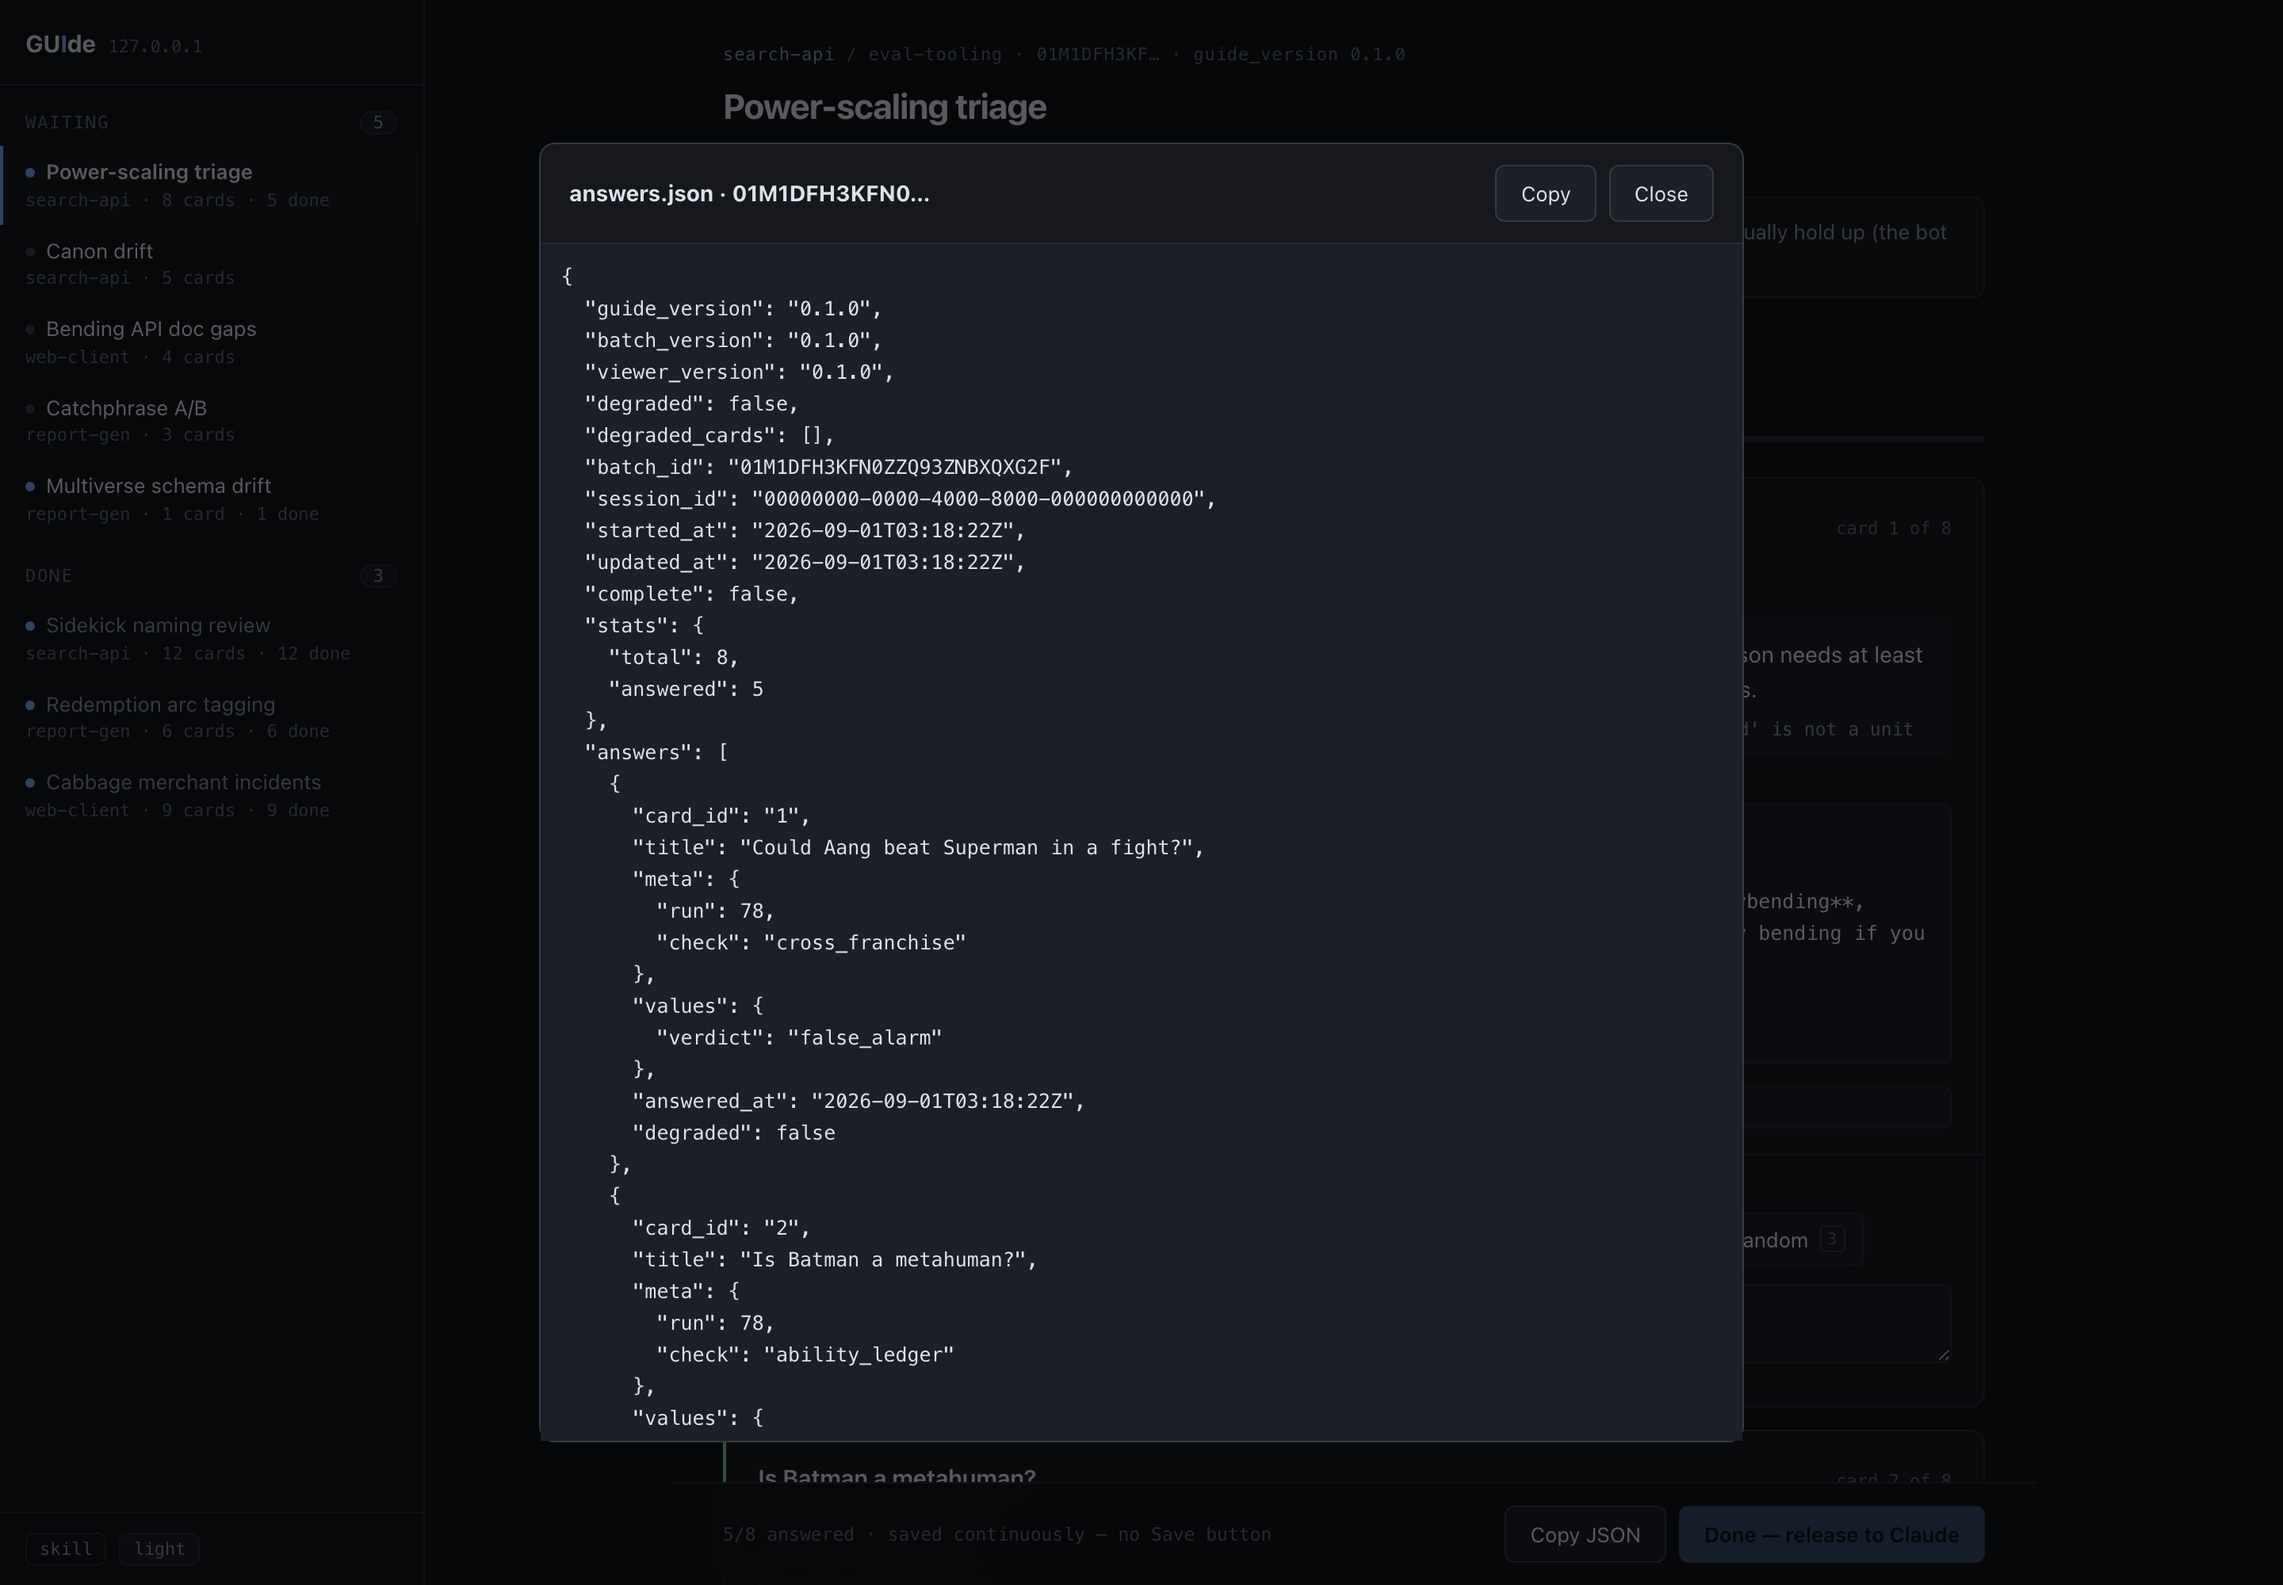
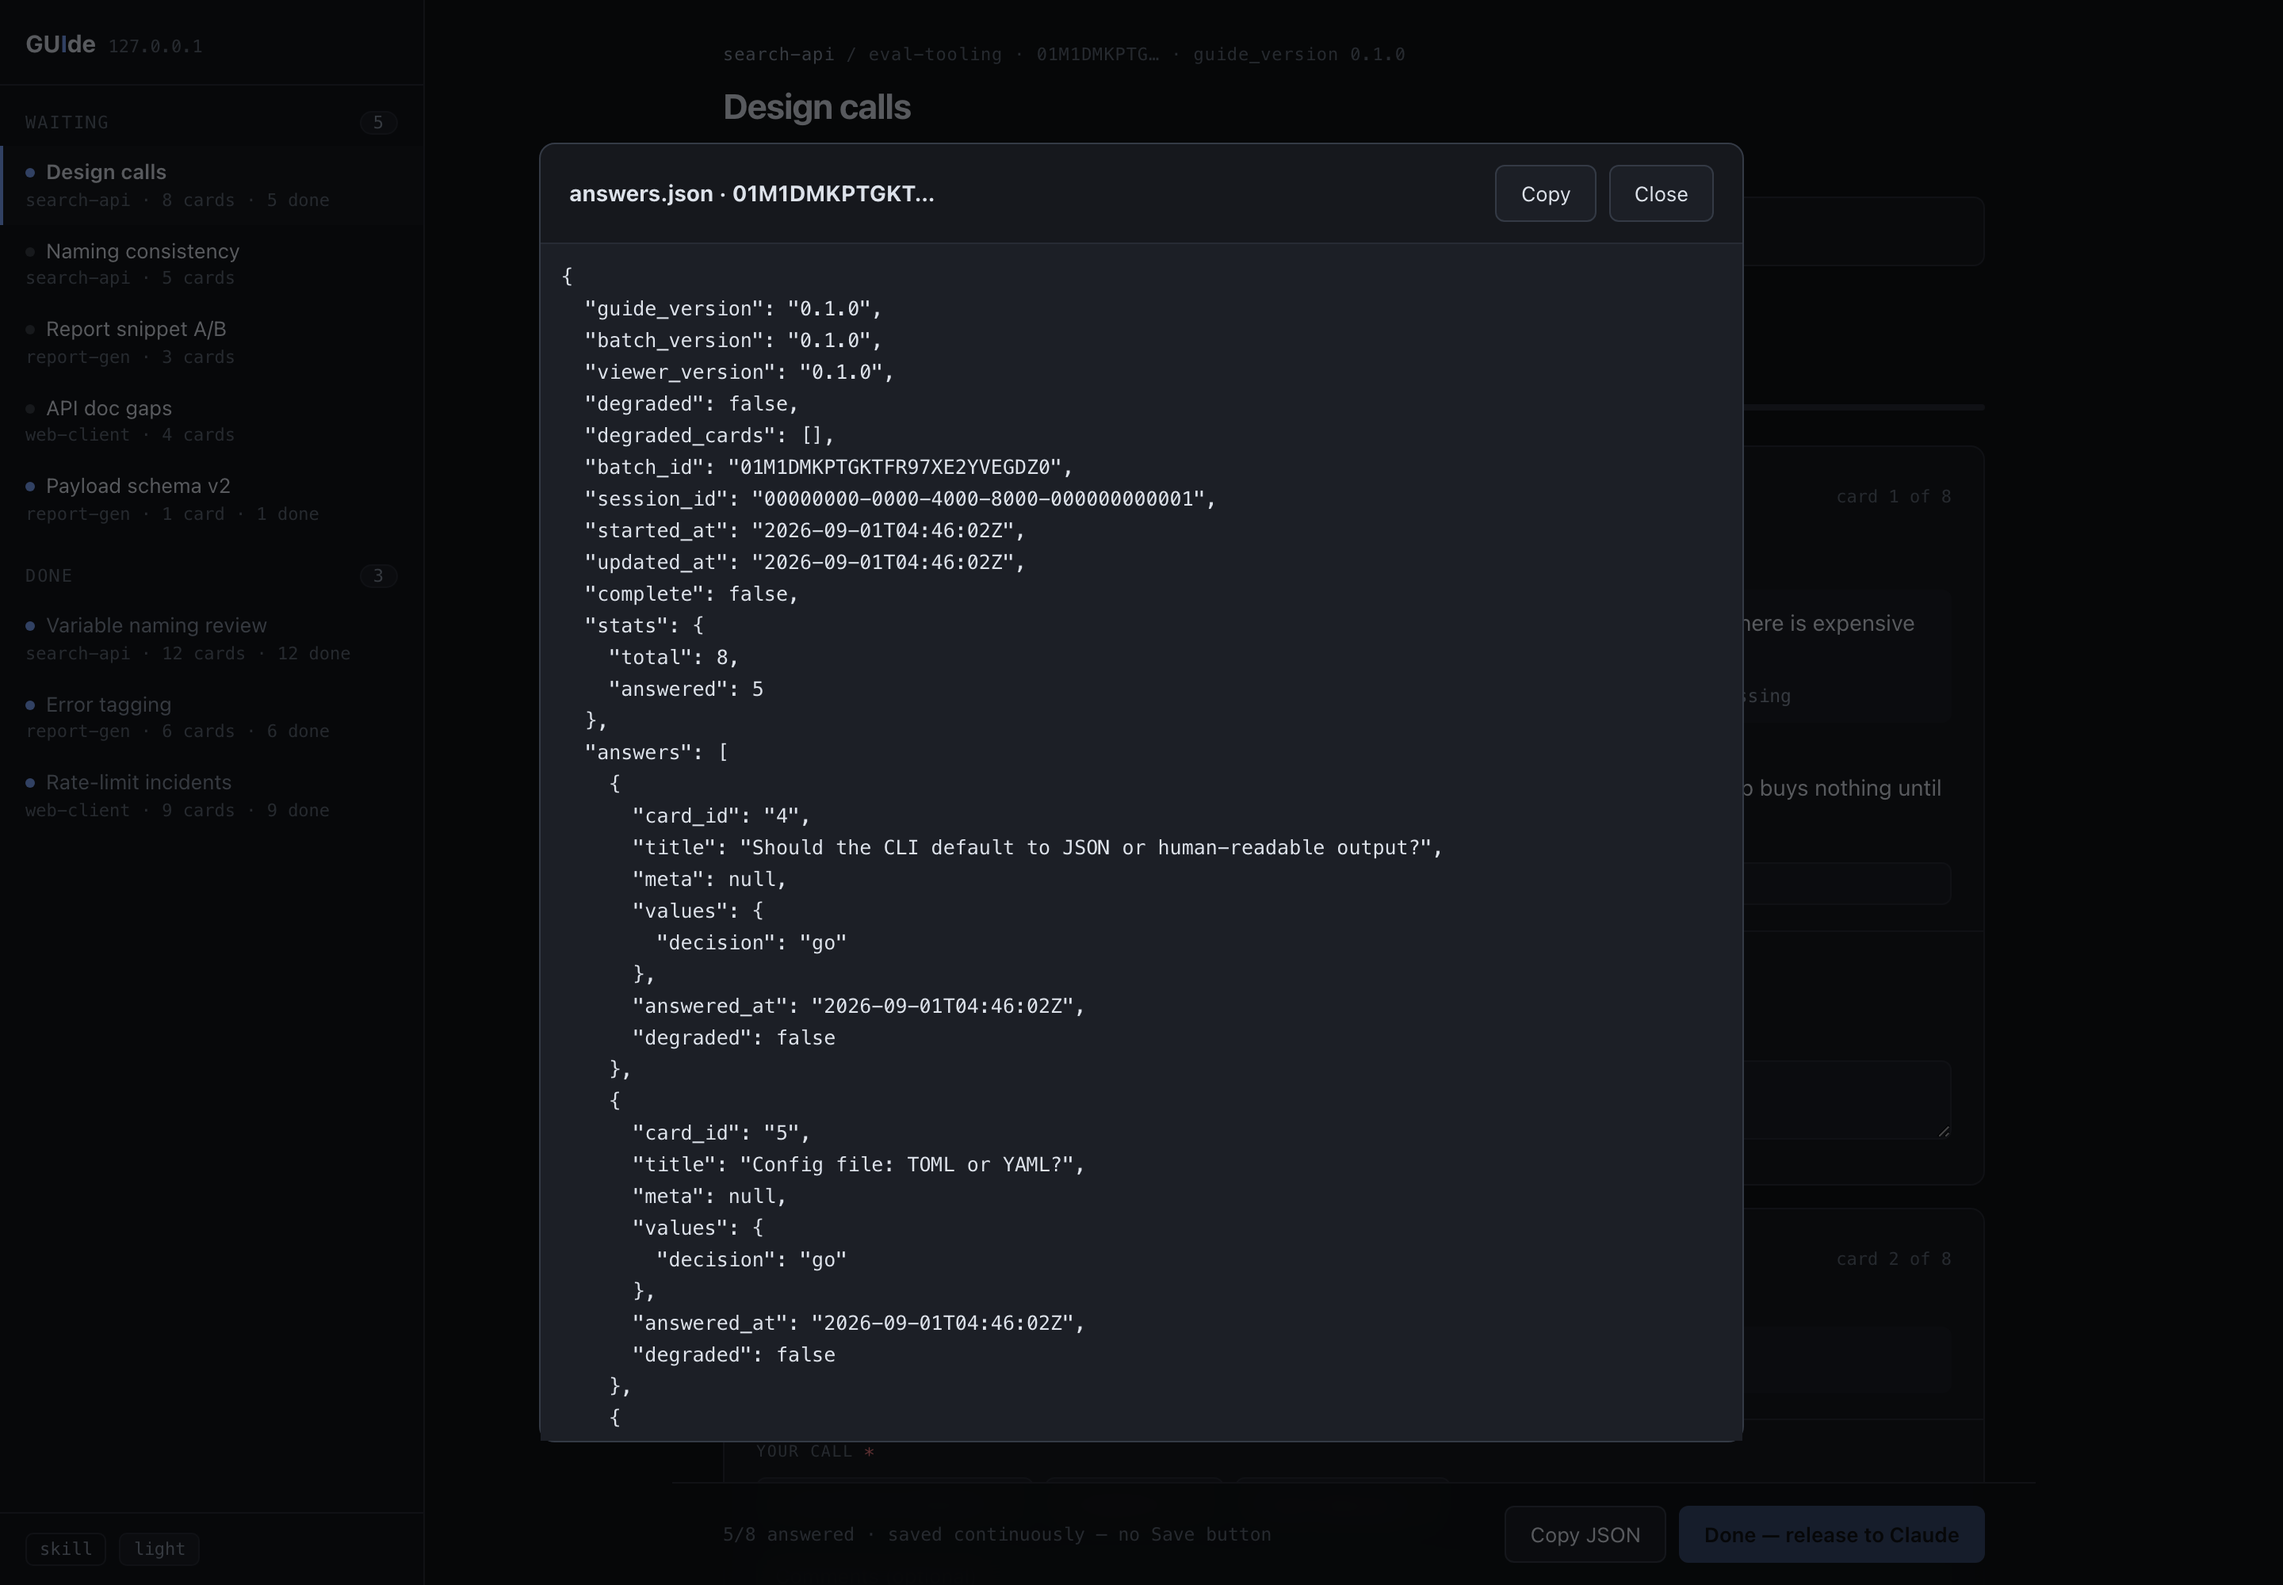
updating readme pics

diff --git a/docs/images/README.md b/docs/images/README.md
@@ -15,21 +15,31 @@ All six are referenced from the root README.
 
 ## Retaking them
 
-The sample data is deliberately ridiculous — the point is the shape, not the subject. It
-lives in `.superseded/preview/batches.js` (five batches that between them exercise every
-block type, every field type, the loud-degrade fallback, and the hard version gate).
+The sample data is real-shaped — a Claude session's own design calls (schema, style,
+CLI, config), not placeholder text — because these are the first thing a visitor sees
+and they should look like the tool doing its actual job. Eight batches between them
+exercise every block type, every field type, the loud-degrade fallback, and the hard
+version gate; none of it is checked in, the same way `.superseded/` never was.
 
 Roughly:
 
-1. `GUIDE_HOME=/tmp/shots uv run guide serve --port 7801` — never the real `~/.guide`,
-   which may hold client data.
-2. Push the four compatible batches with `guide push`. The `0.9.0` one has to be written
-   straight into the store with `guide.store.Store.create`, because `push` refuses it —
-   which is exactly the state `version-gate.png` documents.
-3. Record answers through `PUT /api/v0/batches/<id>/answers/<card_id>` so the state
-   survives a page reload; the browser is not the source of truth here.
-4. Drive Chromium with Playwright at a 1440-wide viewport, `device_scale_factor=2`,
-   `color_scheme="dark"`.
+1. Build the batches as plain dicts and write them straight in with
+   `guide.store.Store(home=...).create(document)` — skips the HTTP layer entirely, so
+   there's no daemon to keep alive while you iterate on content. Record answers with
+   `store.record(batch_id, card_id, values)` and mark the done ones with
+   `store.set_complete(batch_id, complete=True)`.
+2. The `0.9.0` batch (`Payload schema v2`) has to go in the same way — `Store.create`
+   bypasses the gate that `guide push` and the HTTP `POST /batches` both enforce, which
+   is exactly the state `version-gate.png` documents. `store.record` doesn't gate at
+   all, so it can still hold one answer.
+3. Point a real daemon at that store — `GUIDE_HOME=/tmp/shots uv run guide serve --port
+   7801` — never the real `~/.guide`, which may hold client data.
+4. Drive Chromium with Playwright (`uv run --with playwright playwright install
+   chromium`, then a `sync_playwright` script) at a 1440-wide viewport,
+   `device_scale_factor=2`, `color_scheme="dark"`. Two things it doesn't do for free:
+   a collapsed `<details>` doesn't reliably toggle on a synthetic click in headless
+   Chromium, so set `.open = true` directly; and the sticky footer paints over a tall
+   card on an element screenshot, so hide it (`display: none`) for the `card.png` shot.
 
 `example.png` is the odd one out: it is the README's own worked example, pushed from a
 throwaway git repo (`payments-api`, branch `flake-triage`, one commit) so that
